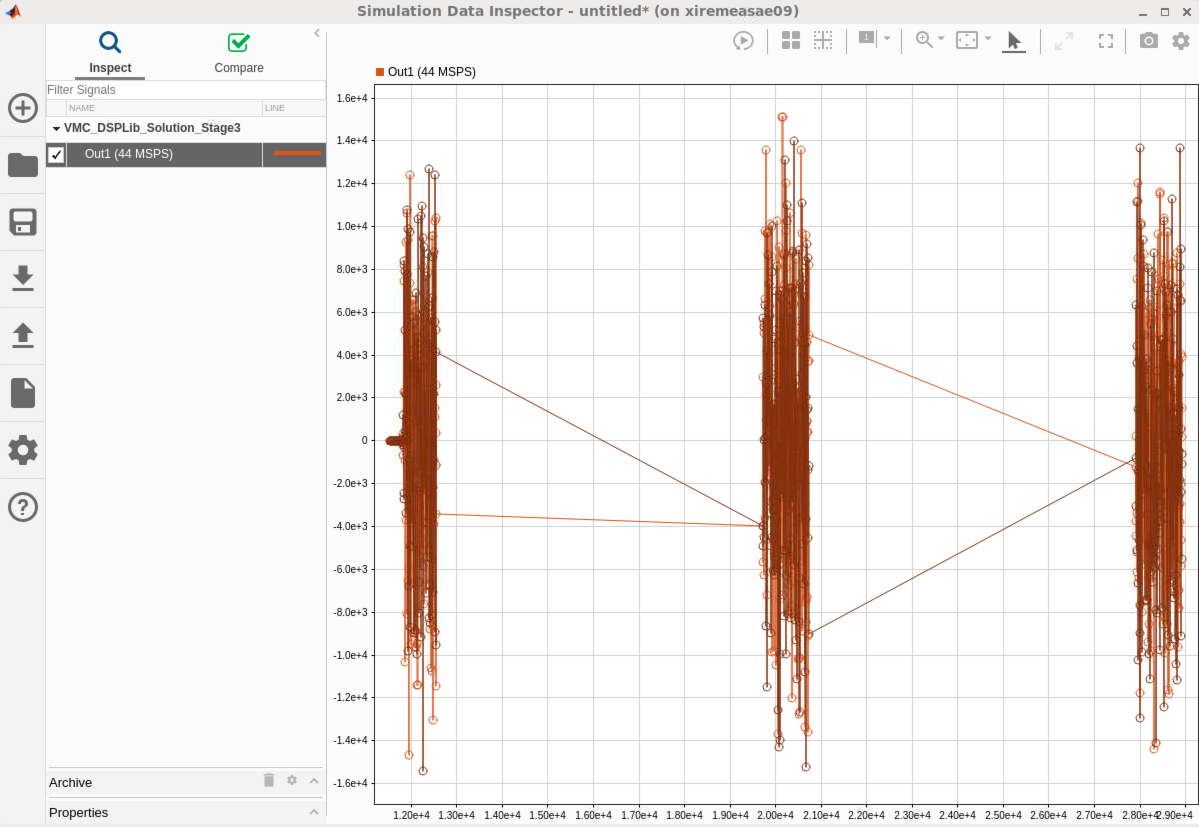
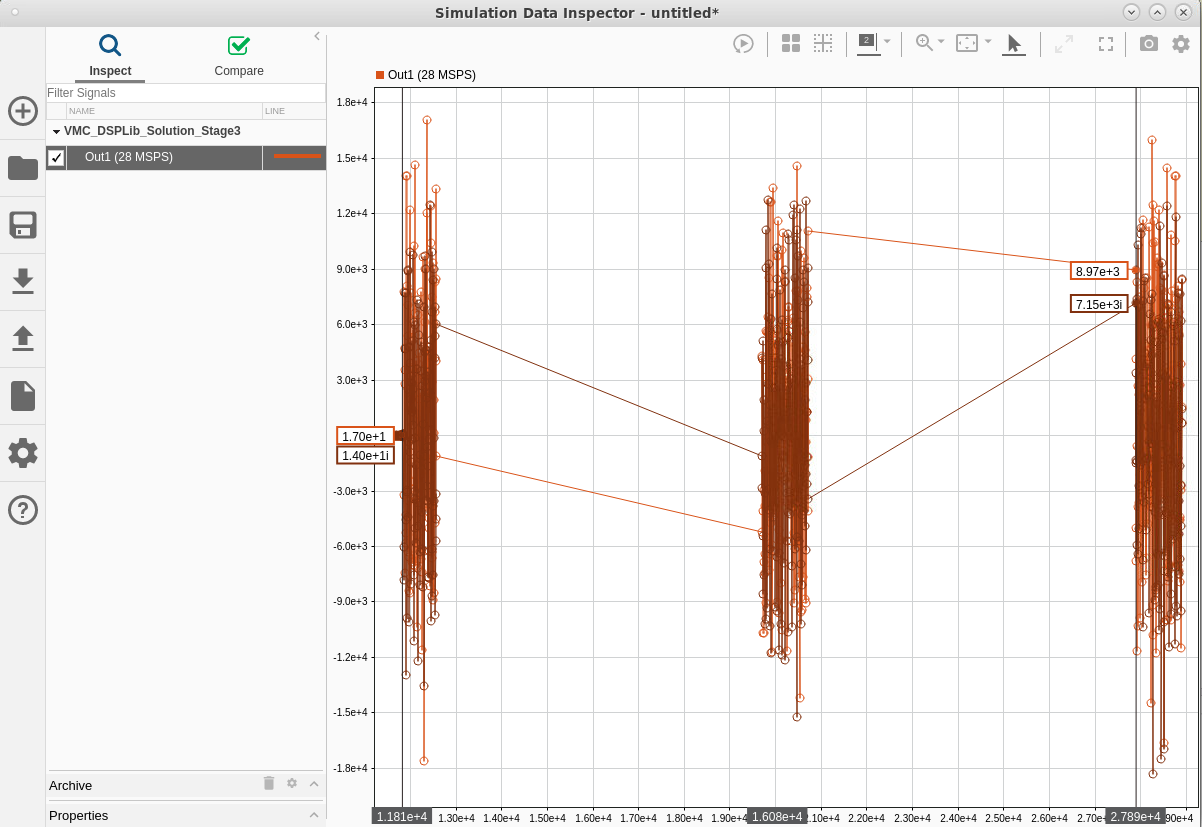
AIE/F/10-DSPlib_Model_Composer: minor doc description updates for 2022.2 (#322)
* Update Simulation Data Inspector screenshots to use cursors

* Update Simulink Data Inspector to use cursors

* Miscellaneous fixes

diff --git a/AI_Engine_Development/Feature_Tutorials/10-aie-dsp-lib-model-composer/README.md b/AI_Engine_Development/Feature_Tutorials/10-aie-dsp-lib-model-composer/README.md
@@ -130,7 +130,7 @@ Near the end of the list of the Library Browser, you will find the **Xilinx Tool
 * HDL
 * HLS
 
-Click the **AI Engine** section. This reveals see four subsections:
+Click the **AI Engine** section. This reveals seven subsections:
 
 * DSP
 * Interfaces
@@ -141,7 +141,7 @@ Click the **AI Engine** section. This reveals see four subsections:
 * User-Defined functions
 
 6. Click the **DSP** sub-section. There are 2 sub-menu entries:
-- Stream IO : which contains filter implementations using streaming input and output:
+- Stream IO : which contains filter implementations using streaming input and output.
 - Window IO: which contains filter implementations using frame-based input and output.
 
 
@@ -150,13 +150,13 @@ Click the **AI Engine** section. This reveals see four subsections:
 ![missing image](Images/Image_007.png)
 
 
-7. Double-click the **AIE FIR HalfBand Decimator** block to open the GUI. Populate the GUI with the following parameters :
+7. Double-click the **FIR Halfband Decimator** block to open the GUI. Populate the GUI with the following parameters :
     * **Input/output data type**: cint16
     * **Filter coefficients data type**: int16
     * **Filter coefficients**: hb1_aie
     * **Input Window size (Number of samples)**: 2048
     * **Input sampling rate (MSPS)**: 800
-    * **Scale output down by 2^: Shift1
+    * **Scale output down by 2**: Shift1
     * **Rounding mode**: Floor
 
     Click on the **Advanced** tab and populate the Input Sampling rate with:
@@ -202,7 +202,7 @@ Notice that before the implementing the Decimation Filter the vector length was 
 
 | Parameter |HB1 |	HB2	| HB3	| Channel Filter |
 | :--- | :--- |  :--- | :--- | :--- |
-| Filter Block	| FIR HalfBand Decimator | FIR HalfBand Decimator	| FIR HalfBand Decimator	| FIR Symmetric Filter |
+| Filter Block	| FIR Halfband Decimator | FIR Halfband Decimator	| FIR Halfband Decimator	| FIR Symmetric Filter |
 | Input Output data type	| cint16	| cint16	| cint16	| cint16 |
 | Filter Coefficients Data Type	| int16	| int16	| int16	| int16 |
 | Filter Coefficients	| hb1_aie	| hb2_aie	| hb3_aie	| cfi_aie |
@@ -242,9 +242,9 @@ Now add a block coming from a standard templated C++ kernel which source is in t
 ![missing image](Images/Image_017.png)
 
 5. **Double-click** the block, a GUI will display. Populate it with the following data:
-* **Kernel header file**: ``aiecode_src / FreqShift.h``
+* **Kernel header file**: ``aiecode_src/FreqShift.h``
 * **Kernel function**: ``FreqShift``
-* **Kernel source file**: ``aiecode_src / FreqShift.cpp``
+* **Kernel source file**: ``aiecode_src/FreqShift.cpp``
 
 ![missing image](Images/Image_018.png)
 
@@ -275,15 +275,14 @@ All the simulations that occur in Simulink are the so-called 'Emulation-SW'. The
 In this stage you will generate the graph code of this design and perform bit-true and cycle true simulations with the AI Engine Simulator.
 
 1. Select the four AIE FIR Filters and the Frequency shifting block and type **CTRL+G** to group them in a subsystem. Assign a new name: **FIRchain**.
-2. Click the canvas and type ``model co``. Set the **Subsystem name** to `FIRchain`.
-3. Double-click the block **Model Composer Hub**, select the **AI Engine / Settings** target  and set the following parameters:
+2. Click the canvas and type ``model co``. Select the **Vitis Model Composer Hub** block.
+3. Double-click the block **Model Composer Hub**, select the **FIRchain** subsystem and set the following parameters on the **AIE Settings** tab:
     * Check **Create testbench**
     * Check **Run cycle approximate AIE Simulation after code generation**
     * Check **Plot AIE Simulation Output and Estimate Throughput**
     * Check **Collect Data for Vitis Analyzer**
 3. Click **Apply**
-4. Select the **Generate** tab:
-   * Click on **Generate**.
+4. Click **Generate**.
 
 The simulink design is run to generate the testbench, then the graph code is generated and compiled. The source code can be viewed in ``./code/src_aie/FIRchain.h``:
 
@@ -363,11 +362,15 @@ Vitis Analyzer is then launched. From here you can see the **Graph View**, the *
 
 ![missing image](Images/Image_023.png)
 
-The Simulation Data Inspector opens-up and we can see the output frames and the estimate of the output throughput as shown below:
+The Simulation Data Inspector opens and shows the output of the AI Engine. The AI Engine's throughput is calculated by counting the number of output data points and dividing by the time. In this case, three frames are received but only two interframe idle time are taken into account. To obtain a more accurate throughput estimate, we can use data cursors to select a specific time region over which to calculate throughput:
+
+1. Select the "Out1" signal from the list on the left. 
+2. Right-click on the plot and select "Data Cursors->Two". 
+3. Position the cursors at the beginning of the first and third signal frames, as shown below. 
 
 ![missing image](Images/Image_024.png)
 
-Here the estimated throughput is 44 MSPS instead of the expected 100 MSPS. You can use Vitis Analyzer to track the reason of this throughput reduction. Here it is very easy to see that the input stream feeds the data @250 MSPS instead of the 800 MSPS that were expected in the graph. The reason is that the input bitwidth is 32 bits at a rate of 250MHz (default value) as can be seen at the end of the FIRchain.h file.
+Here the estimated throughput is 28 MSPS instead of the expected 100 MSPS. You can use Vitis Analyzer to track the reason of this throughput reduction. Here it is very easy to see that the input stream feeds the data @250 MSPS instead of the 800 MSPS that were expected in the graph. The reason is that the input bitwidth is 32 bits at a rate of 250MHz (default value) as can be seen at the end of the FIRchain.h file.
 
 ## Stage 4: Increasing PLIO bitwidth and re-generate
 
@@ -381,13 +384,13 @@ Click **OK**. Place the block just after the input port, and a copy of this bloc
 
 ![missing image](Images/Image_025.png)
 
-Re-open the **Vitis Model Composer Hub** and click **Generate** to re-compile and re-simulate the design.
+Re-open the **Model Composer Hub** block and click **Generate** to re-compile and re-simulate the design.
 
-After the AI Engine simulation, the estimated throughput is 177 MSPS. This is computed from the following timestamped (green) output data:
+After the AI Engine simulation, the estimated throughput is 126 MSPS. This is computed from the following timestamped (green) output data, calculated for two full frame periods:
 
 ![missing image](Images/Image_026.png)
 
-Three frames are received but only two interframe idle time are taken into account. A more precise estimate woul be to count the 512 output samples in between the 2 red vertical line. This gives almost 125 MSPS which is  1/8th of the input sample rate (1 GSPS). This means that the design can support for sure the 800 MSPS that were specified in the design.
+This gives around 125 MSPS which is 1/8th of the input sample rate (1 GSPS). This means that the design can support the 800 MSPS that were specified in the design.
 
 ## Conclusion
 
